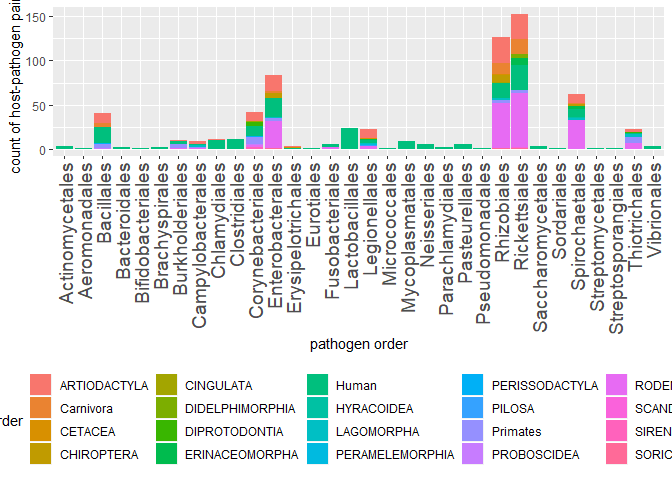
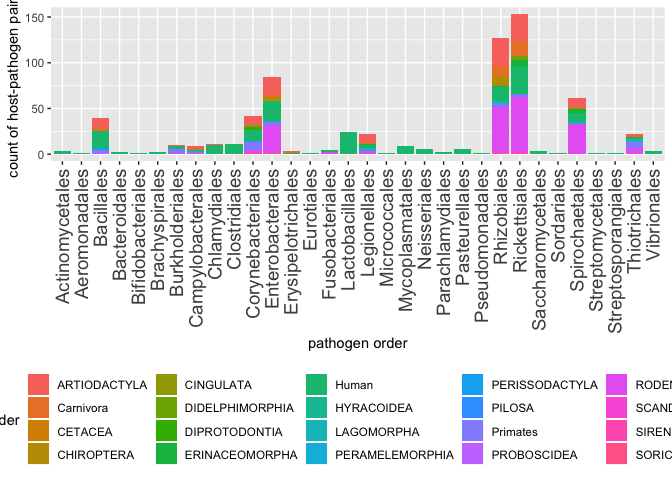
add bacteria order plot

diff --git a/bacteria.md b/bacteria.md
@@ -42,9 +42,9 @@ Study design
 
 #### install and load required packages
 
-    ## Removing package from 'C:/Users/fischhoffi/Documents/R/win-library/3.5'
+    ## Removing package from '/Library/Frameworks/R.framework/Versions/3.4/Resources/library'
     ## (as 'lib' is unspecified)
-    ## Removing package from 'C:/Users/fischhoffi/Documents/R/win-library/3.5'
+    ## Removing package from '/Library/Frameworks/R.framework/Versions/3.4/Resources/library'
     ## (as 'lib' is unspecified)
 
     ## 
@@ -54,21 +54,17 @@ Study design
     ## 
     ##     :=
 
-    ## Installing package into 'C:/Users/fischhoffi/Documents/R/win-library/3.5'
-    ## (as 'lib' is unspecified)
+    ## 
+    ##   There is a binary version available but the source version is
+    ##   later:
+    ##        binary source needs_compilation
+    ## tibble  1.4.2  2.0.1              TRUE
 
-    ## package 'tibble' successfully unpacked and MD5 sums checked
+    ## installing the source package 'tibble'
+
     ## 
     ## The downloaded binary packages are in
-    ##  C:\Users\fischhoffi\AppData\Local\Temp\RtmpaEyhFq\downloaded_packages
-
-    ## Installing package into 'C:/Users/fischhoffi/Documents/R/win-library/3.5'
-    ## (as 'lib' is unspecified)
-
-    ## package 'tidyselect' successfully unpacked and MD5 sums checked
-    ## 
-    ## The downloaded binary packages are in
-    ##  C:\Users\fischhoffi\AppData\Local\Temp\RtmpaEyhFq\downloaded_packages
+    ##  /var/folders/0d/qm_pqljx11s_ddc42g1_yscr0000gn/T//RtmpW5aBIA/downloaded_packages
 
     ## 
     ## Attaching package: 'dplyr'
@@ -132,8 +128,20 @@ Study design
     ## 
     ##     slice
 
-    ## Skipping install of 'BacDiveR' from a github remote, the SHA1 (71082209) has not changed since last install.
-    ##   Use `force = TRUE` to force installation
+    ## Downloading GitHub repo TIBHannover/BacDiveR@master
+    ## from URL https://api.github.com/repos/TIBHannover/BacDiveR/zipball/master
+
+    ## Installing BacDiveR
+
+    ## '/Library/Frameworks/R.framework/Resources/bin/R' --no-site-file  \
+    ##   --no-environ --no-save --no-restore --quiet CMD INSTALL  \
+    ##   '/private/var/folders/0d/qm_pqljx11s_ddc42g1_yscr0000gn/T/RtmpW5aBIA/devtools1da6534663f7/TIBHannover-BacDiveR-7108220'  \
+    ##   --library='/Library/Frameworks/R.framework/Versions/3.4/Resources/library'  \
+    ##   --install-tests
+
+    ## 
+
+    ## Installation failed: Command failed (3)
 
     ## Skipping install of 'taxizedb' from a github remote, the SHA1 (7ee9741a) has not changed since last install.
     ##   Use `force = TRUE` to force installation
@@ -218,6 +226,20 @@ source("parse_vector.R")
     ## Saving 7 x 5 in image
 
     ## `stat_bin()` using `bins = 30`. Pick better value with `binwidth`.
+
+``` r
+plot1
+```
+
+![](bacteria_files/figure-markdown_github/unnamed-chunk-4-1.png)
+
+``` r
+plot2
+```
+
+    ## `stat_bin()` using `bins = 30`. Pick better value with `binwidth`.
+
+![](bacteria_files/figure-markdown_github/unnamed-chunk-4-2.png)
 
 #### Assemble data on primates (prim-zdx-parasites.xls, google sheet), carnivores (carnivore-zdx-parasites.csv, dropbox), other mammals ("animal-dx-parasites - animal-dx-parasites.csv", exported from google sheet).
 
@@ -341,8 +363,8 @@ outputs: bacteria\_species.Rdata (master list of bacteria); out\_synonym.Rdata (
 source("R_bacteria_lists_compare.R")
 ```
 
-    ## [1] 99443     3
-    ## [1] 99355     3
+    ## [1] 99441     3
+    ## [1] 99353     3
 
 #### Classify bacteria
 
@@ -360,8 +382,8 @@ source("R_name2taxid.R")
 source("R_classify_bacteria_observed.R")
 ```
 
-    ##      user    system   elapsed 
-    ## 0.3201667 0.0445000 0.3648333
+    ##        user      system     elapsed 
+    ## 0.266283333 0.009516667 0.284333333
 
 Make graph of pathogenic bacteria by bacteria order, with different colors by bacteria family
 
@@ -399,14 +421,21 @@ plot
 
 ![](bacteria_files/figure-markdown_github/R_graph_host_order_pathogen_order-1.png)
 
-Use classification in taxize to classify to order all bacteria in master list. Note this takes ~8 hours to do all. Input: bacteria\_species.Rdata. Output: bacteria\_species\_out.Rdata Commenting this out for now, plan to run on workstation
+Use classification in taxize to classify to order all bacteria in master list. Note this takes ~8 hours to do all. Input: bacteria\_species.Rdata. Output: bacteria\_species\_out.Rdata Commenting this out for now, has been run on workstation
 
 ``` r
-source("R_classify_bacteria.R")
+#source("R_classify_bacteria.R")
 ```
 
-    ##      user    system   elapsed 
-    ## 204.17400  27.98417 232.39683
+Assign pathogen status to bacteria\_species\_out. Make graph of frequency of bacteria by order, for pathogenic and non-pathogenic bacteria. Input: bacteria\_species\_out.Rdata; df\_all.Rdata Output: bacteria\_species\_out1.Rdata
+
+``` r
+source("R_graph_bacteria_order_pathogen_status.R")
+source("R_graph_bacteria_order_pathogen_status1.R")
+plot
+```
+
+![](bacteria_files/figure-markdown_github/unnamed-chunk-11-1.png)
 
 Graph counts across mammalian orders. Use df\_all.Rdata. Includes humans among primates
 
